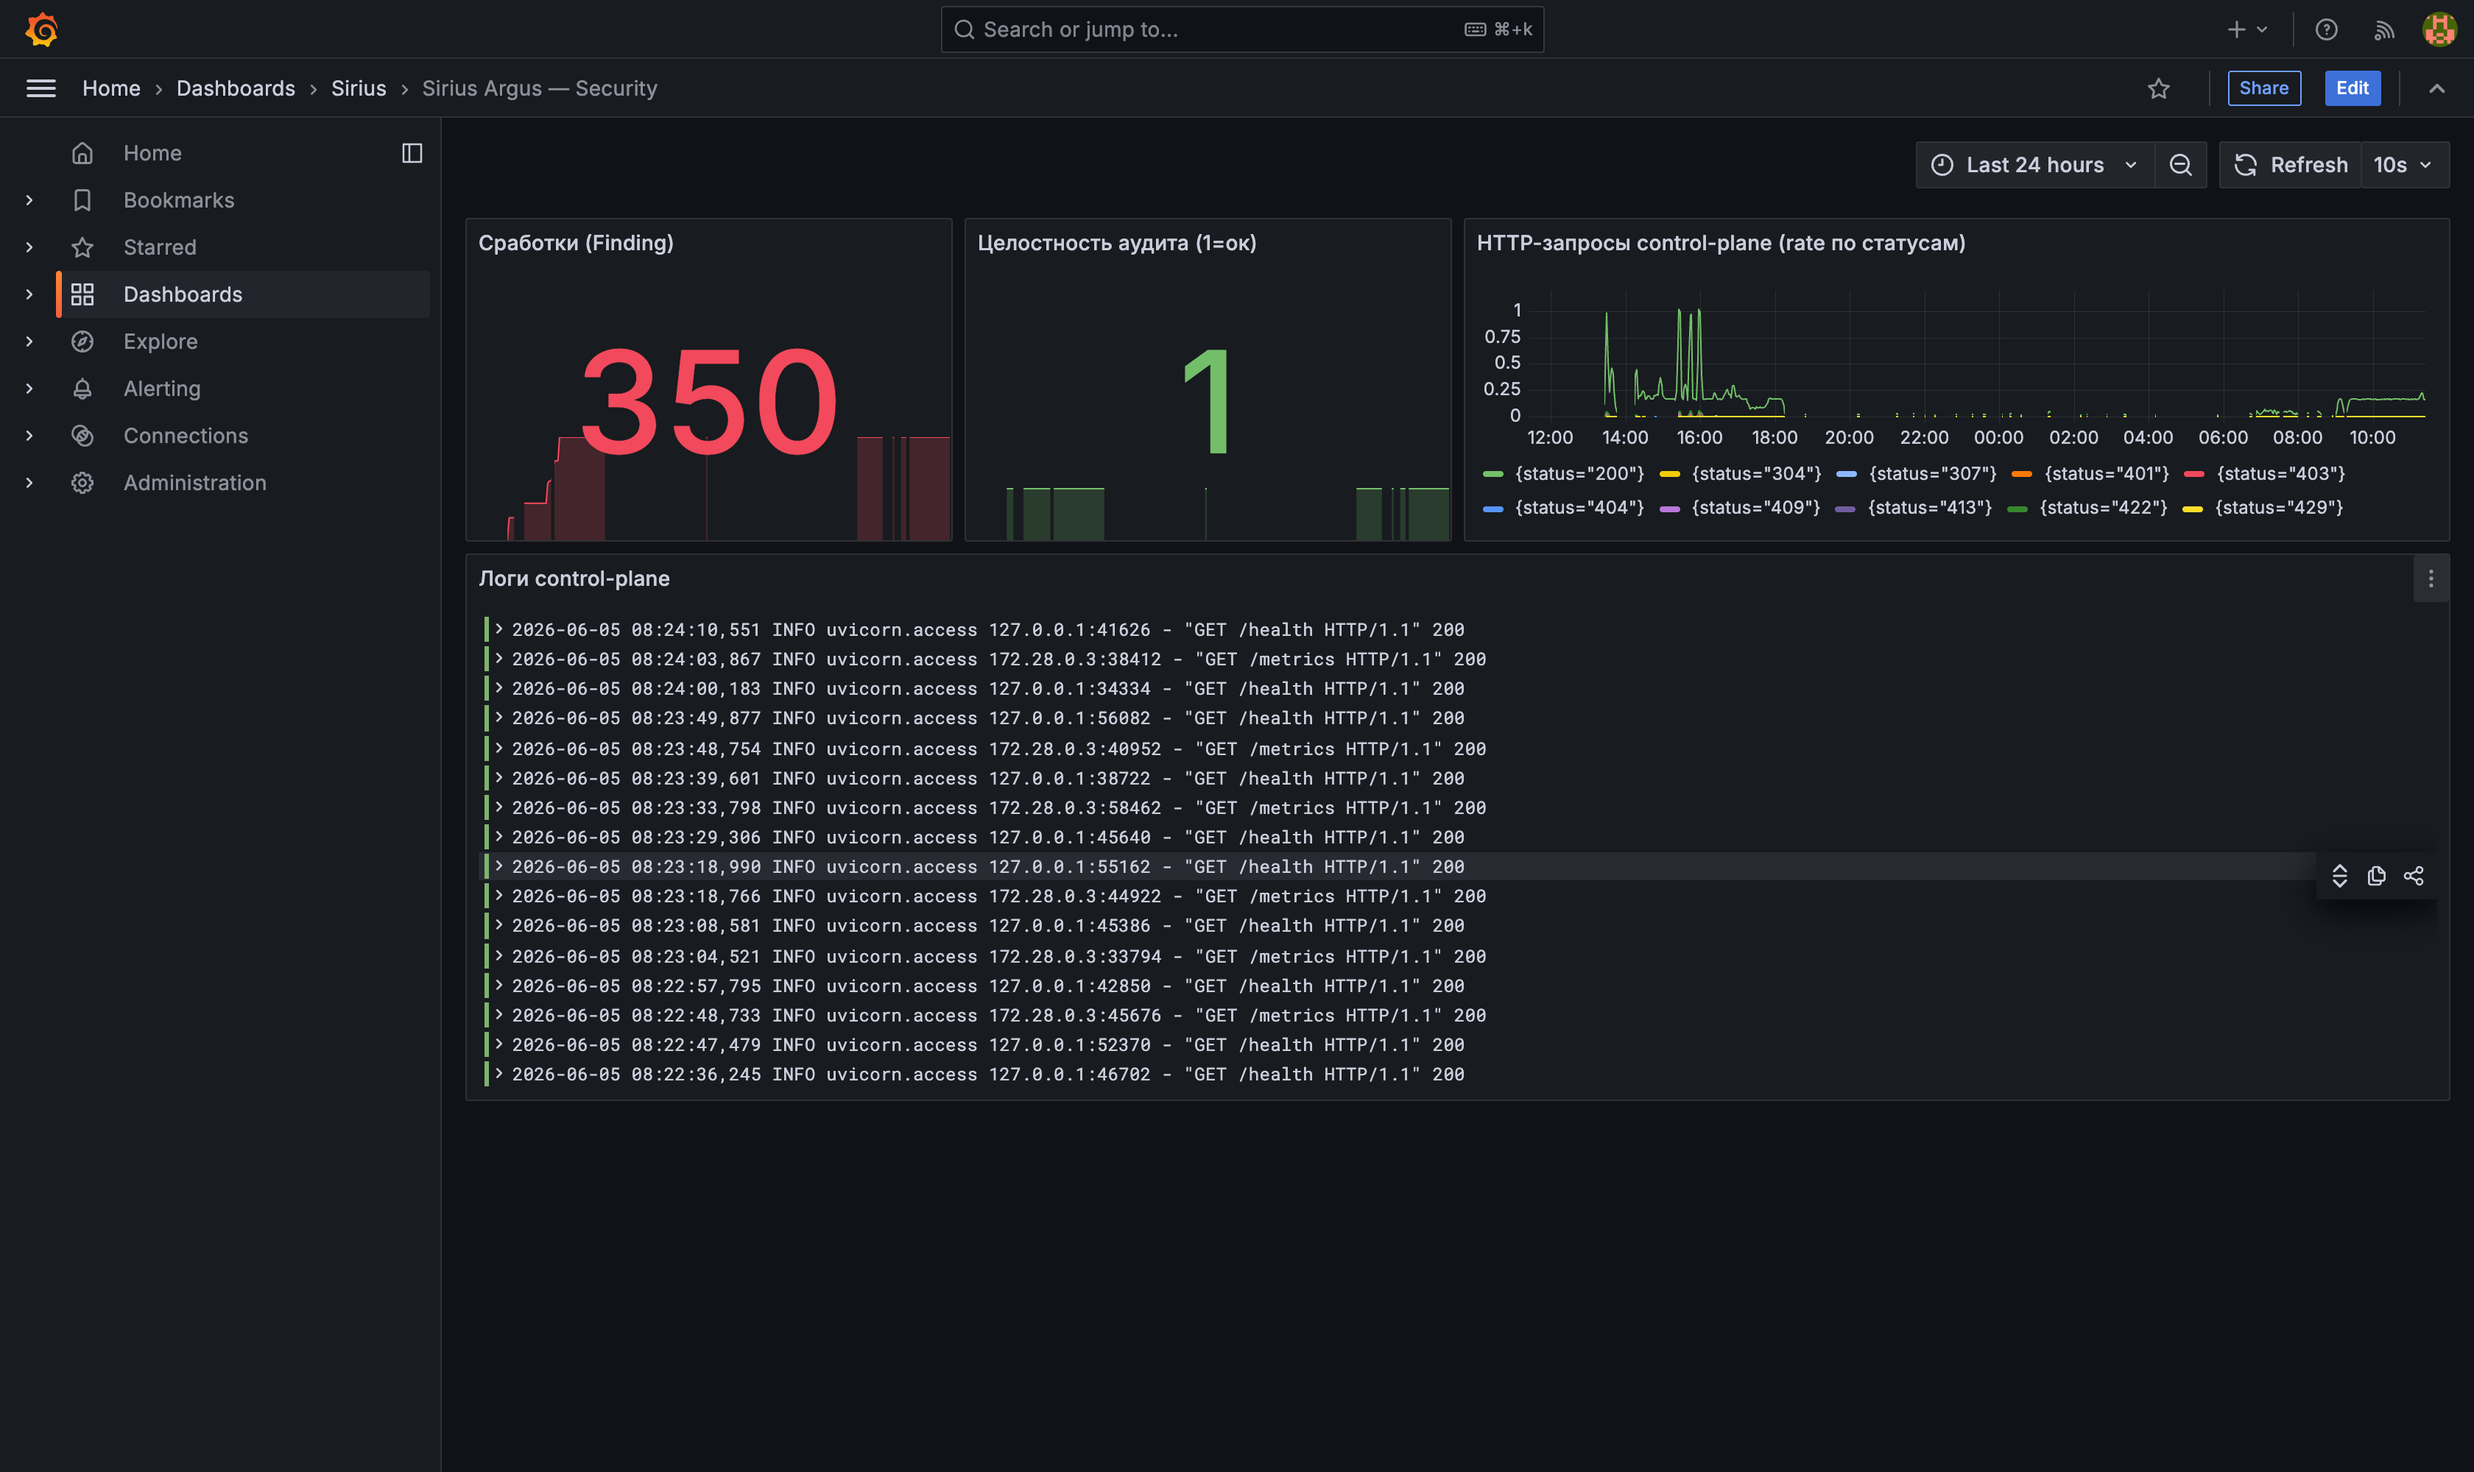
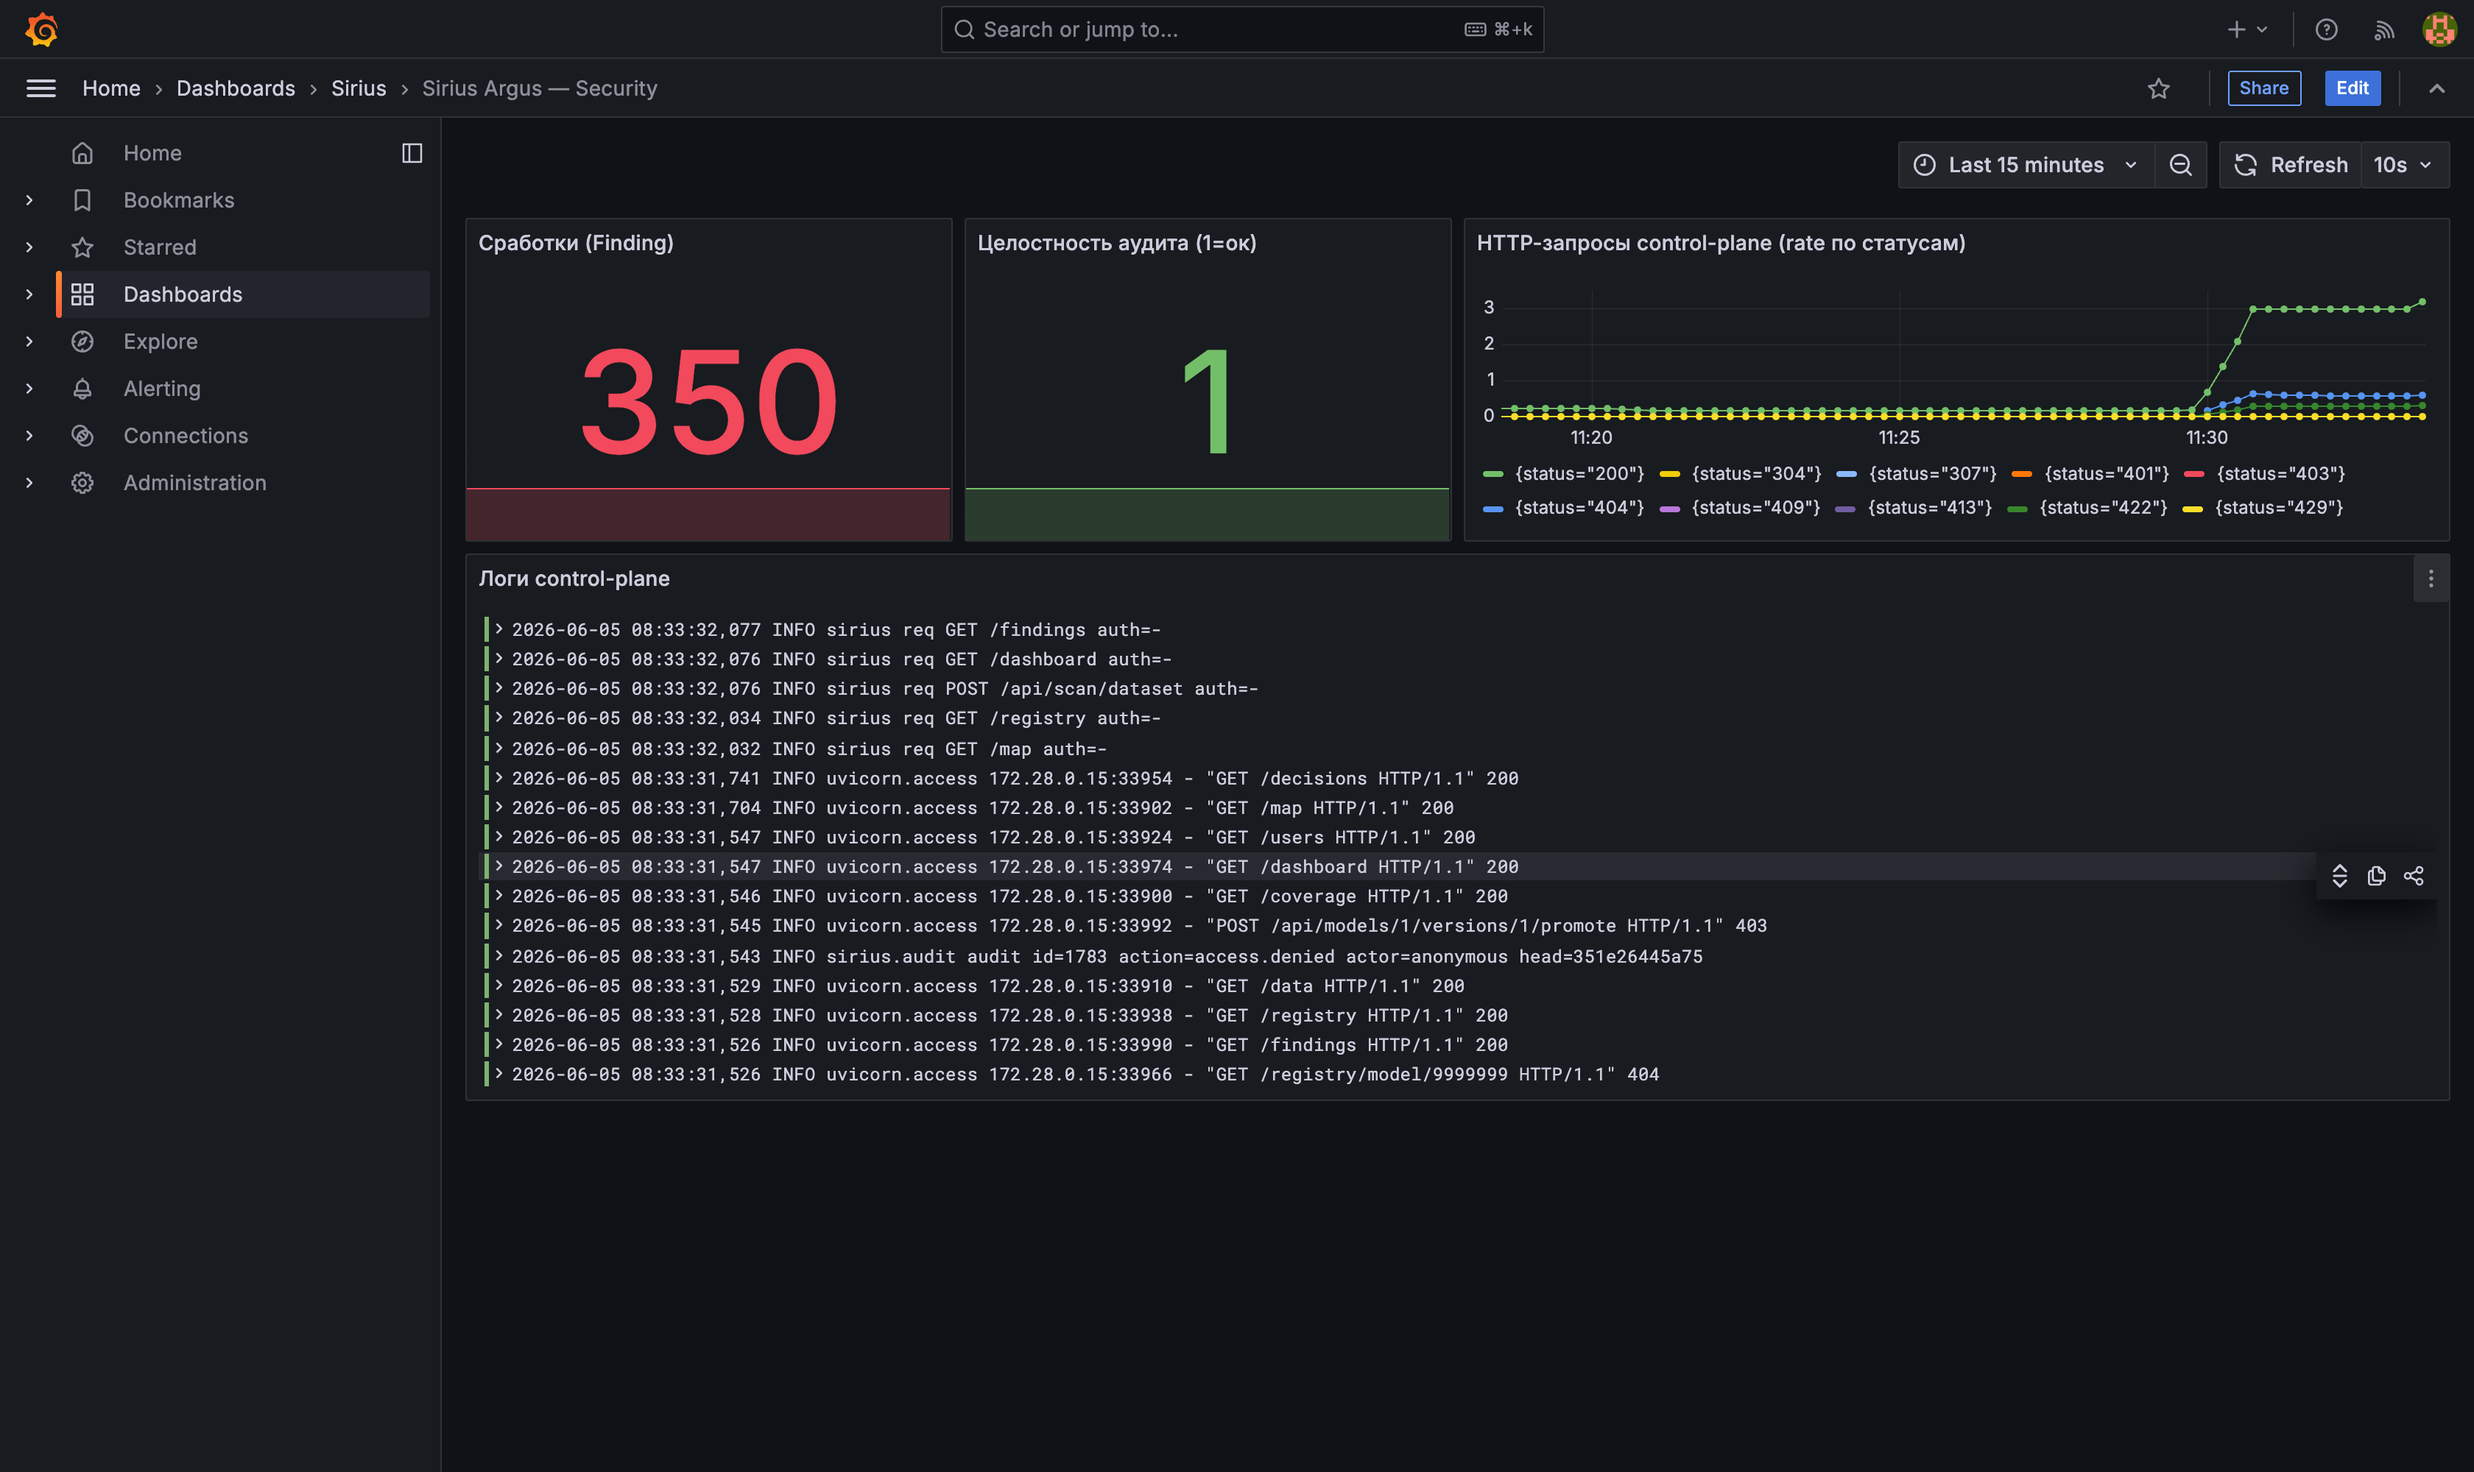
docs: насыщенные observability-кадры (нагрузка + Prometheus как график)
- Grafana-дашборд переснят под трафиком: HTTP-панель с цветной разбивкой
  по статусам (200/4xx/3xx) ожила, поток логов разнообразный
- Prometheus — вместо таблицы из 2 targets теперь график
  rate(sirius_http_requests_total) по статусам: всплески нагрузки и доля
  ошибочных ответов; подпись в architecture §5 обновлена

diff --git a/docs/_assets/screenshots-plan.md b/docs/_assets/screenshots-plan.md
@@ -45,4 +45,4 @@
 | ✅ | 13 | **Live-дашборд** | Поток сработок + таймлайн аудита в реальном времени | `/dashboard` | `14-dashboard.png` | overview, testing |
 | ✅ | 14 | **Матрица ролей (RBAC)** | Роль → действие из единого источника (zero-trust) | `/roles` | `15-roles.png` | architecture §10 |
 | ✅ | 16 | **Grafana — дашборд безопасности** | observability: метрики (сработки/аудит/HTTP-rate) + логи Loki; тёмная+светлая | `localhost:3000` → `/d/sirius-sec` (admin) | `16-grafana.png` | architecture §5 |
-| ✅ | 17 | **Prometheus — targets** | сбор метрик с control-plane (`/metrics`, scrape up) | Prometheus `/targets` (internal :9090) | `17-prometheus.png` | architecture §5 |
+| ✅ | 17 | **Prometheus — график rate** | rate HTTP-запросов control-plane по статусам (`sirius_http_requests_total`) под нагрузкой | Prometheus `/query` graph (internal :9090) | `17-prometheus.png` | architecture §5 |

diff --git a/docs/architecture.md b/docs/architecture.md
@@ -133,9 +133,9 @@ flowchart TB
 <td><img src="_assets/img/light/16-grafana.png" alt="Grafana — дашборд безопасности, светлая"></td>
 </tr></table>
 
-Prometheus собирает метрики с control-plane (`/metrics`) — targets up:
+Prometheus собирает метрики с control-plane по `/metrics` — rate HTTP-запросов по статусам (`sirius_http_requests_total`), видно всплески нагрузки и долю ошибочных ответов:
 
-<img src="_assets/img/17-prometheus.png" alt="Prometheus — scrape targets">
+<img src="_assets/img/17-prometheus.png" alt="Prometheus — rate запросов control-plane по статусам">
 
 Метрики и логи отделены от аудита: дашборды — про оперативное состояние, а авторитетный tamper-evident аудит живёт в Postgres ([ADR-0009](adr/0009-observability-logstore.md)).
 
